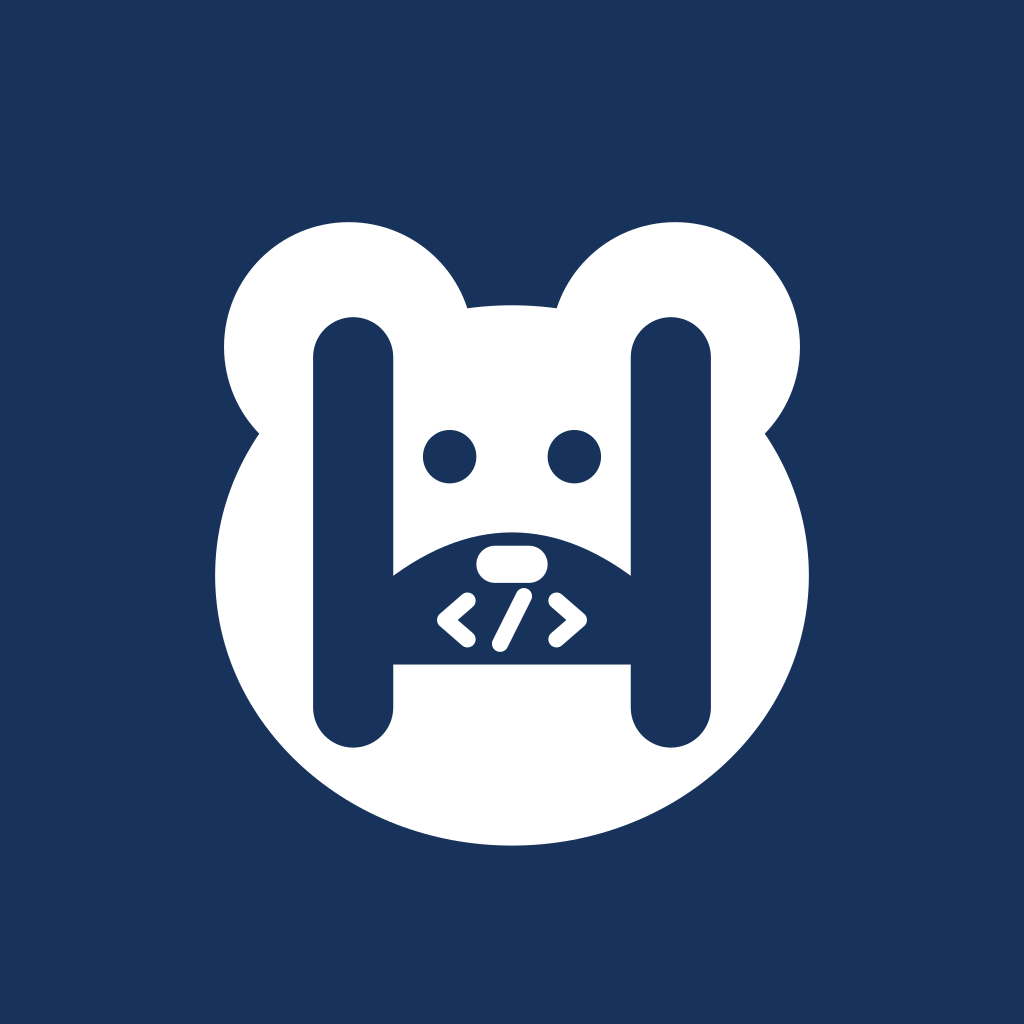
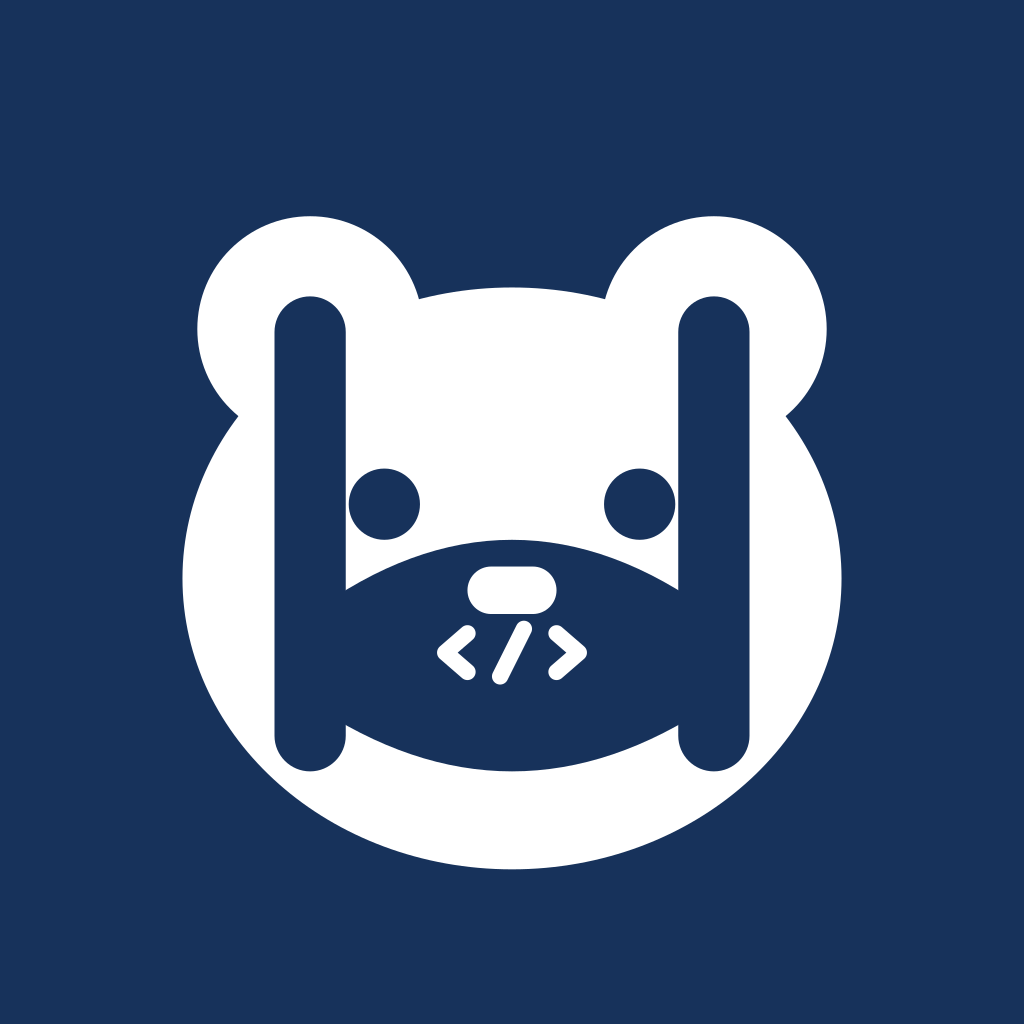
feat(brand): シンボルを可愛らしい案に更新し、マスコット画像を追加
- シンボル：輪郭を横長の楕円に、目の間隔を広げ、口元を丸く（比較3案から案1を採用）
- ロゴ一式・SNS 用 PNG を新しいシンボルで再生成
- マスコット（文字なし・背景透過）を src/assets/mascot に追加
- sampleimages/ を .gitignore に追加

Changed region(s): [[0.1562, 0.1875, 0.8438, 0.875], [0.3438, 0.2188, 0.6562, 0.3125]]

diff --git a/docs/decisions.md b/docs/decisions.md
@@ -133,13 +133,15 @@
 ### D-020 ロゴ体系（2026-10-08）※D-011 を変更
 
 - **シンボル**：候補 D（H の形でクマの顔を作り、口元に `</>`）を SVG で清書した。SNS アイコン、ファビコン、ヘッダーに使う。
-  - 清書で直した点：顔の輪郭を閉じた形にした／H の脚を横棒より下に伸ばし、H と読めるようにした／鼻と `</>` を分離した
+  - 清書で直した点：顔の輪郭を閉じた形にした／H の脚を口元より下に伸ばし、H と読めるようにした／鼻と `</>` を分離した
+  - 可愛らしさの調整（3案から案1を採用）：横長の楕円の輪郭、目の間隔を広げて大きく低く、口元の下端を丸くしてあごを軽く
+  - 比較画像：`docs/content/brand/symbol-options.png`
   - 文字は M PLUS Rounded 1c（OFL）をアウトライン化
   - ブランドカラー（紺）：`#17325B`
   - ファイル：`src/assets/brand/`（シンボル、白抜き、横組み、縦組み、SNS アイコン明・暗、ファビコン）。SNS アップロード用の PNG は `docs/content/brand/`
   - 生成スクリプト：`scripts/brand/`
 - **マスコット**：候補 A（茶色のクマがノートPCで作業するイラスト）。About、404、OGP、ブログなど大きく見せる場所に使う。
-  - 現在の画像には「Higuma lab」の文字が入っているため、**文字なし・背景透過で再生成したものを使う**（TODO）
+  - 文字なし・背景透過で再生成した版を使う：`src/assets/mascot/mascot-laptop.png`（余白を切り詰め、半透明のふちを整理済み）
 - 候補 B は不採用。候補 C（EST. 2026 のエンブレム）は Web では使わない。
 
 ## TODO（未確定）
@@ -150,7 +152,6 @@
 - [ ] Windowsアプリの名称・概要・公開予定時期・ストアURL
 - [ ] 各SNSのURL
 - [ ] ロゴの類似チェック結果（D-020 の清書版で実施）
-- [ ] マスコット（候補 A）の文字なし・背景透過版（D-020）
 - [ ] apex / www のどちらを正規URLにするか最終確認（D-003）
 - [ ] AIクローラー（GPTBot 等）を robots.txt で許可するか（初期案：許可）
 - [ ] キャッチコピー（Phase 3 で候補提示）

diff --git a/docs/content/build-log.md b/docs/content/build-log.md
@@ -30,3 +30,7 @@
   - 文字は M PLUS Rounded 1c（OFL）を opentype.js でアウトライン化。
   - SVG のサイズ：シンボル 約0.8KB、文字入りロゴ 約18KB。
 - 英語表記を `HIGUMA LAB` に統一（生成画像は「Higuma lab」だった）。
+- シンボルの再調整：最初の清書は「可愛くない」「目の間隔が近すぎる」との評価 → 3案を作って比較し、案1を採用。
+  - 変更点：輪郭を横長の楕円に、目を元画像と同じく H の脚の近くまで離して大きく・低く、口元の下端を丸くして紺のあごを減らした。
+  - 学び：幾何学的に整えるだけだと硬い印象になる。目の位置と大きさ、あごの面積が「可愛らしさ」に大きく効く。
+- マスコット：ChatGPT で文字なし・背景透過の版を再生成。半透明のふち（アルファ値 235 以上を不透明に）と余白を整理。
